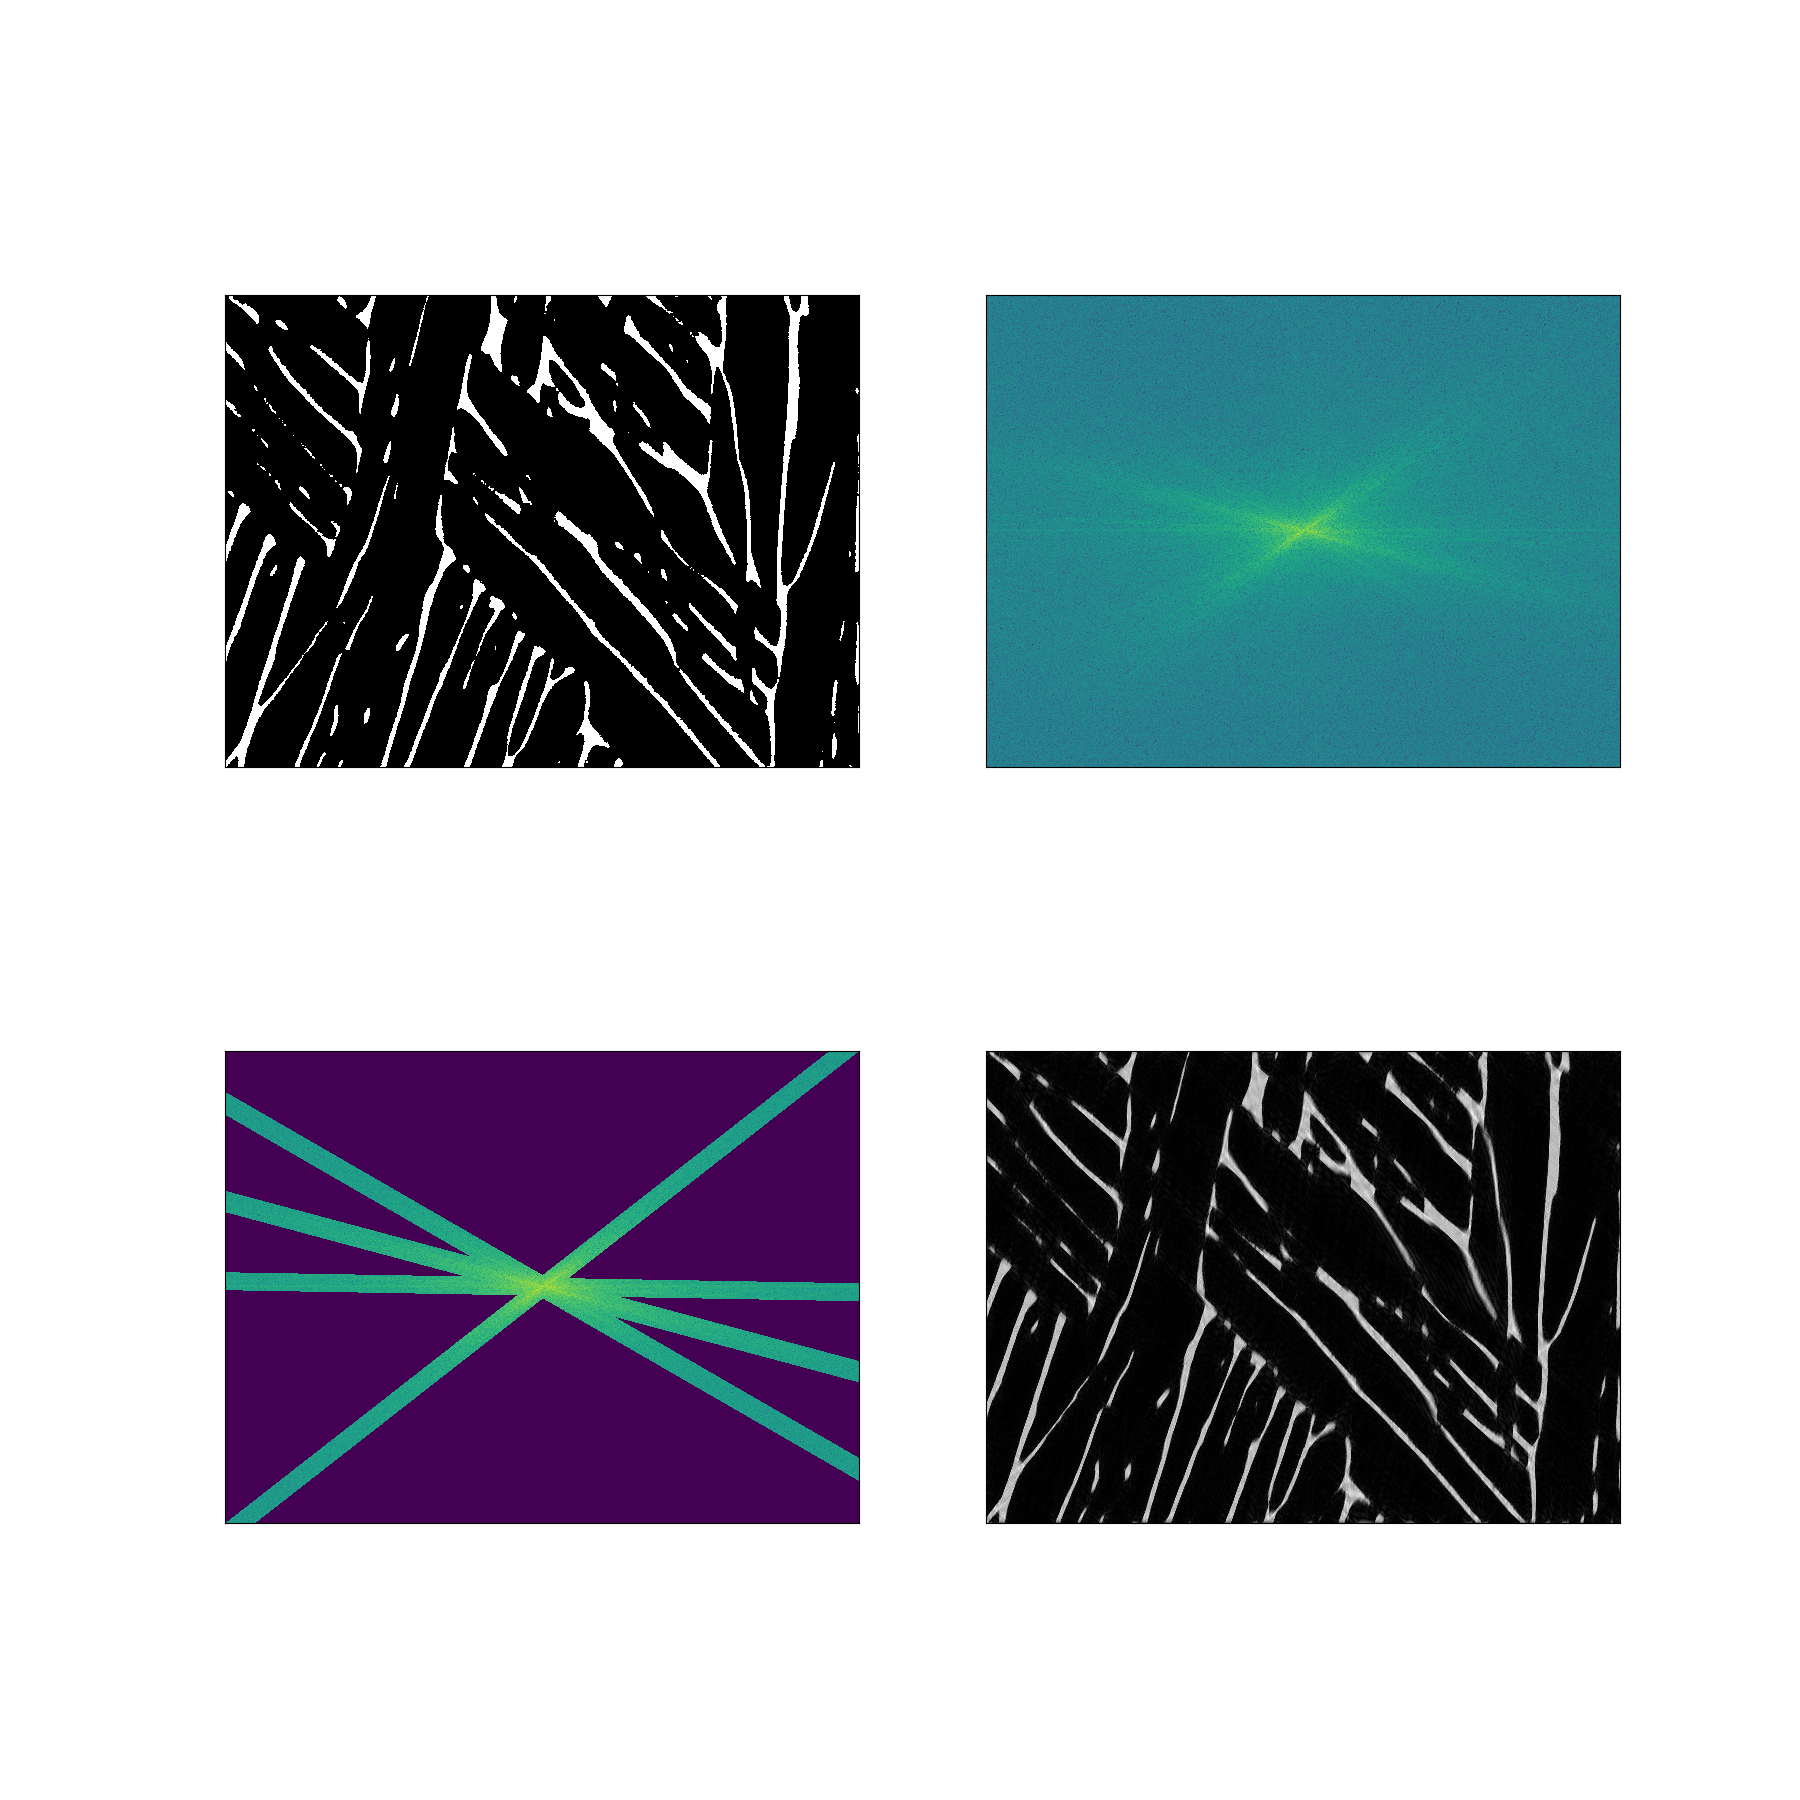
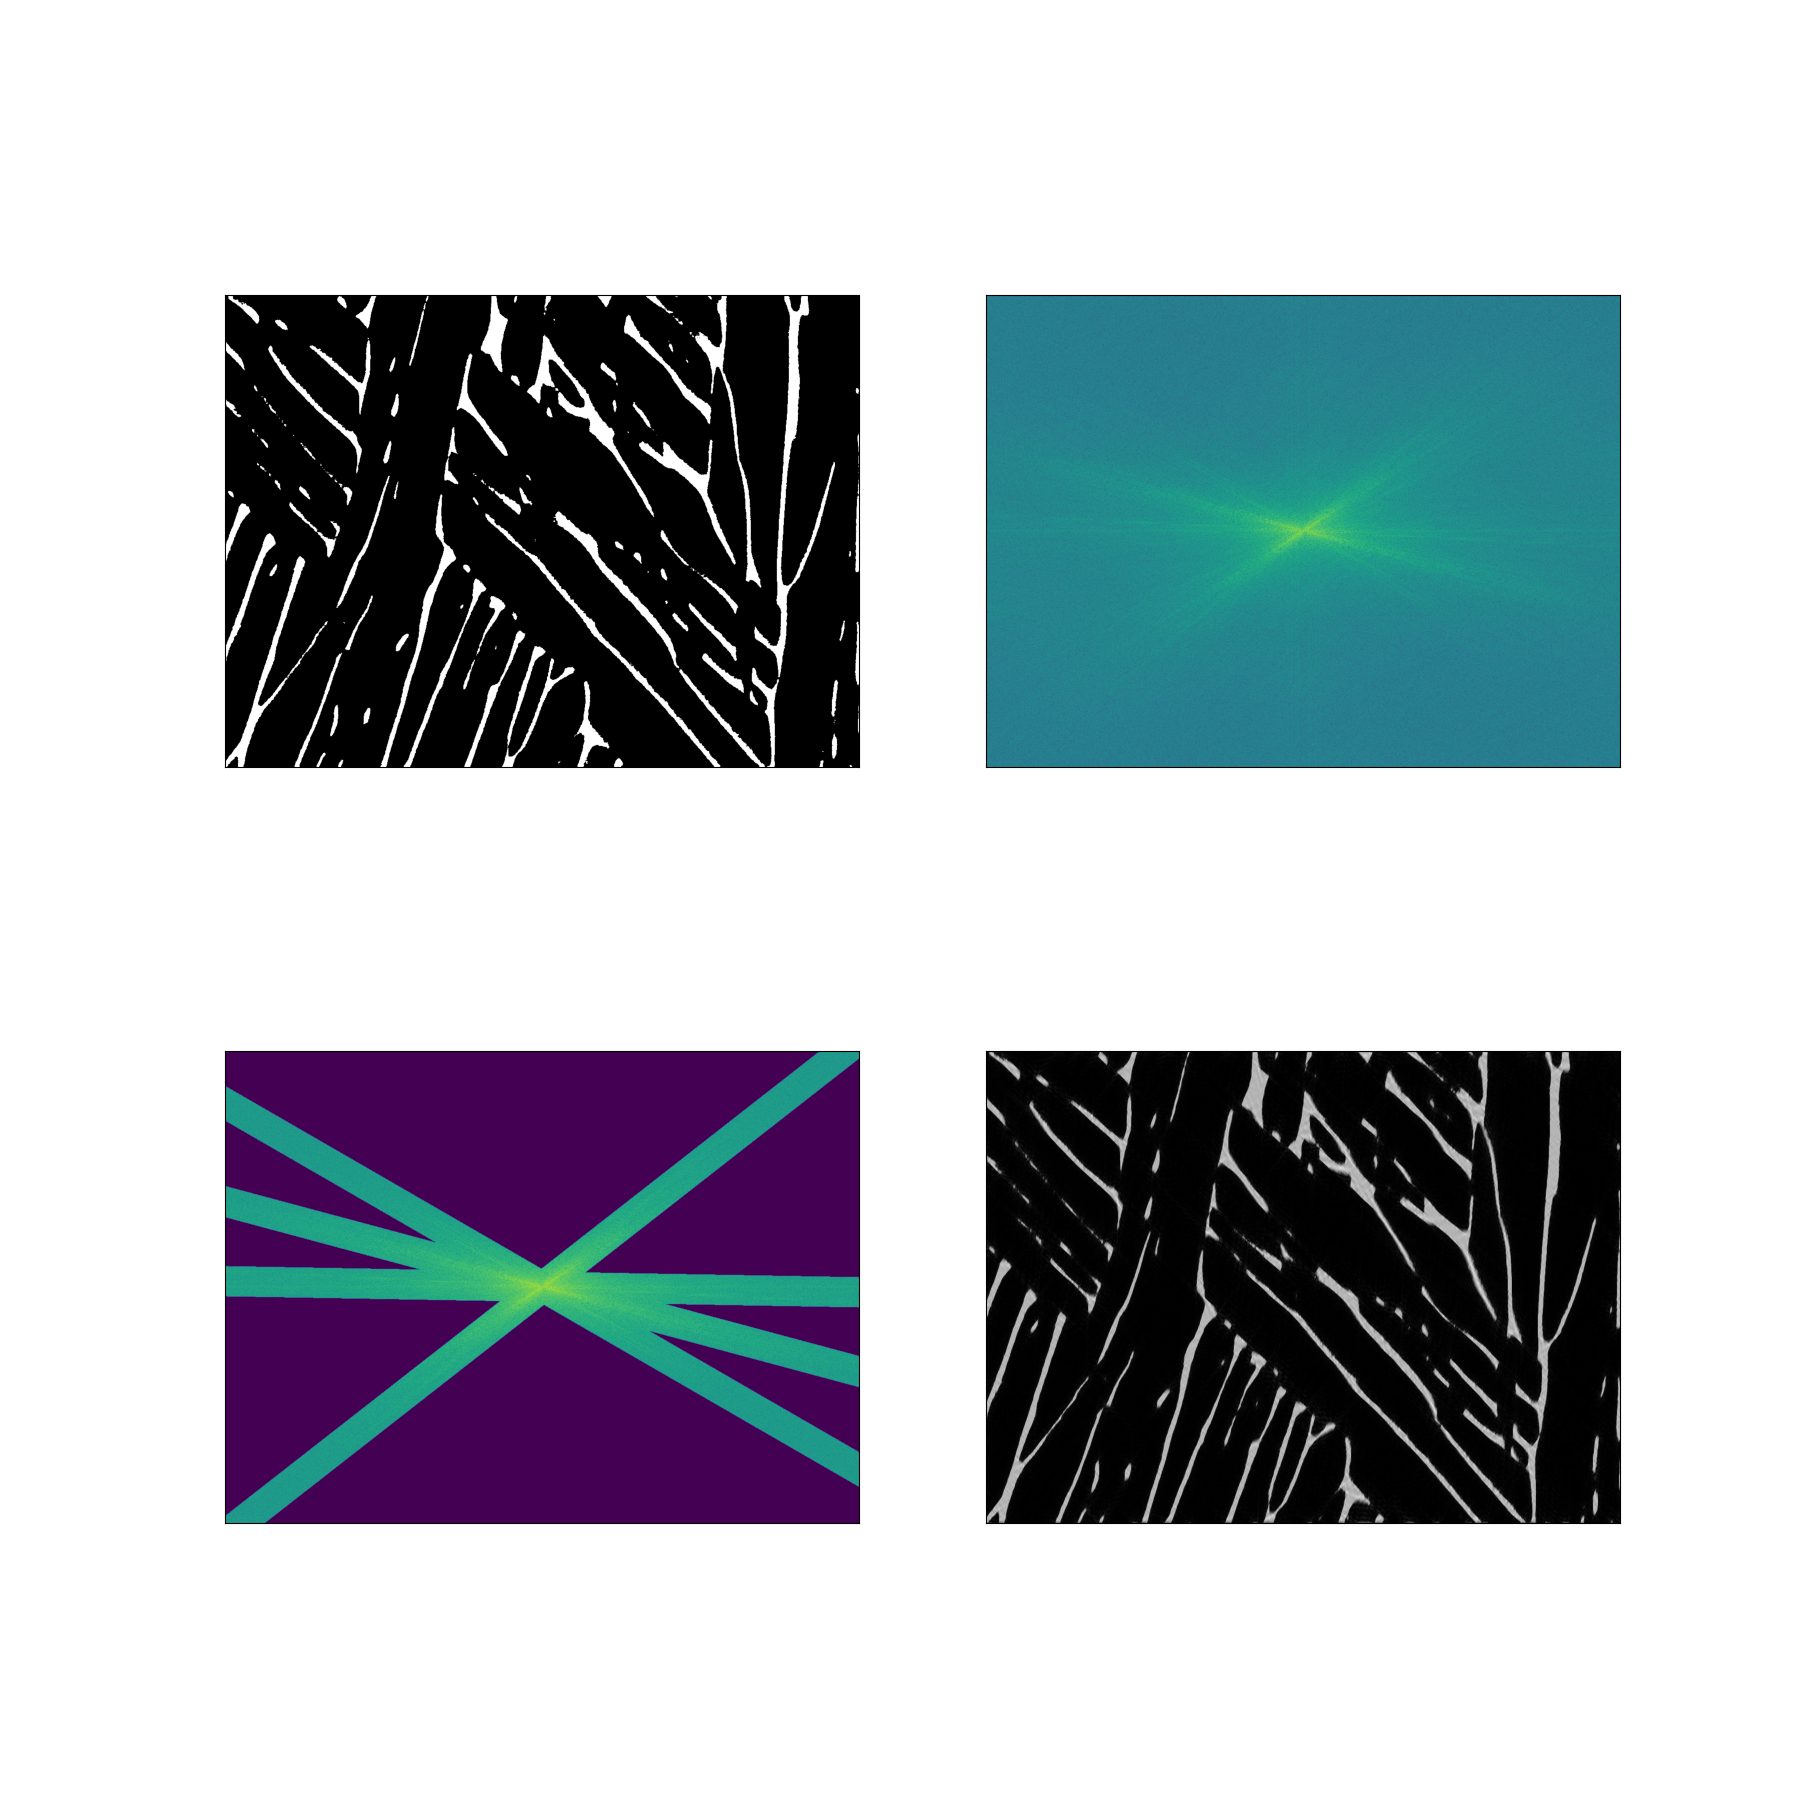
Improved FFT rectangular mask generation

diff --git a/visualisation.py b/visualisation.py
@@ -36,10 +36,10 @@ image_processing.display_image_1D(
 
 # FFT images
 fft = fast_Fourier_transform.fft_rectangular(
-    thresholded_otsu, r_masks=[(-52, 60), (75, 160), (89, 2000), (60, 80)])
+    thresholded_otsu, r_masks=[(-52, 60), (75, 60), (89, 60), (60, 60)])
 
 masks = fast_Fourier_transform.create_rectangular_masks(
-    thresholded_otsu, r_masks=[(-52, 60), (75, 160), (89, 2000), (60, 80)])
+    thresholded_otsu, r_masks=[(-52, 60), (75, 60), (89, 60), (60, 60)])
 
 fft_comparison = fast_Fourier_transform.fft_filter(thresholded_otsu, masks)
 
@@ -71,7 +71,7 @@ image_processing.display_image_2D(
     removed,
     rows=2, cols=2,
     filename='segmentation.png',
-    visualisation=True)
+    visualisation=False)
 
 end = time.time()
 

diff --git a/fast_Fourier_transform.py b/fast_Fourier_transform.py
@@ -36,8 +36,9 @@ def create_rectangular_masks(img: np.ndarray, r_masks: List[Tuple[float, float]]
 
     x0, y0 = center[0], center[1]
     for r_mask in r_masks:
-        theta, delta_y = r_mask
+        theta, width = r_mask
         theta = theta*np.pi/180.0
+        delta_y = width/np.cos(theta)
 
         mask_area = np.logical_and(
             (y <= y0 + np.tan(theta)*(x - x0) + delta_y/2),
